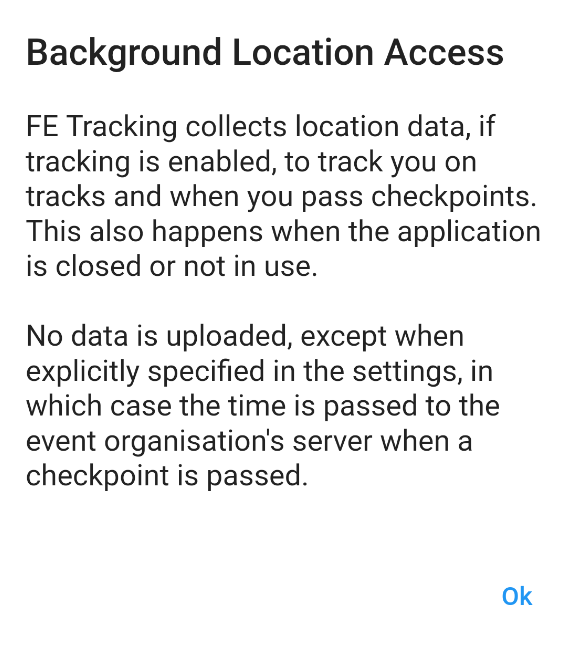
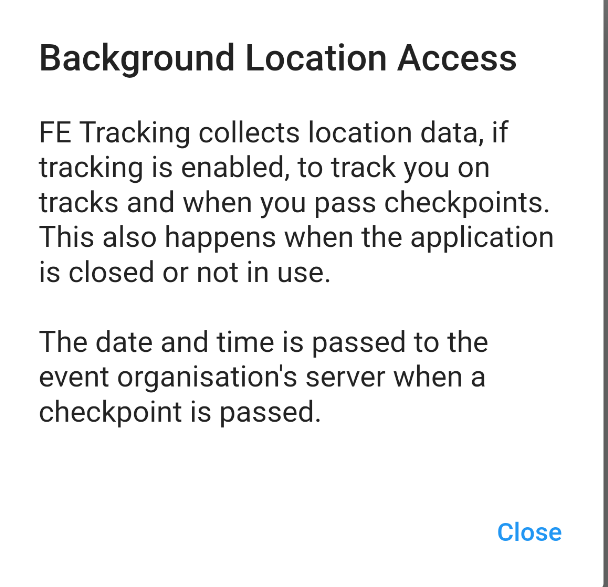
Removed a setting

diff --git a/docs/getting-started/settings.rst b/docs/getting-started/settings.rst
@@ -6,7 +6,7 @@ Settings
 
    .. raw:: html
 
-      <div style="padding:159.72% 0 0 0;position:relative;"><iframe src="https://player.vimeo.com/video/555131123?title=0&byline=0&portrait=0" style="position:absolute;top:0;left:0;width:100%;height:100%;" frameborder="0" allow="autoplay; fullscreen; picture-in-picture" allowfullscreen></iframe></div><script src="https://player.vimeo.com/api/player.js"></script>
+      <div style="padding:159.72% 0 0 0;position:relative;"><iframe src="https://player.vimeo.com/video/566485834?title=0&byline=0&portrait=0" style="position:absolute;top:0;left:0;width:100%;height:100%;" frameborder="0" allow="autoplay; fullscreen; picture-in-picture" allowfullscreen></iframe></div><script src="https://player.vimeo.com/api/player.js"></script>
    ---
    All changes made to the settings are applied immediately.
 
@@ -14,13 +14,6 @@ Settings
 
 General settings
 ----------------
-
-Upload checkpoints
-  If this is switched on, the organisation's server will be notified when a checkpoint is passed.
-  Checkpoints that have already been passed will not be reported to the organisation. If mobile data and/or WiFi is not available the App will retry as soon there is a data connection.
-  Data usage is very minimal; it is less than 1k per checkpoint.
-
-  No privacy-sensitive information is transmitted to the server. The name of the checkpoint, date and time when it was passed, the qrcode of the eticket and two signatures that are unique for the route and checkpoint for this eticket.
 
 Sound
   A short sound is played as soon as a checkpoint is passed, if this setting is switched on.

diff --git a/docs/index.rst b/docs/index.rst
@@ -8,9 +8,10 @@ FE Tracking
 Getting started
 ---------------
 
-The FE Tracking App can be used as an addition to the `Fast Events WordPress plugin <https://docs.fast-events.eu/>`_. The App offers participants - especially in sports events - the possibility
-to show a route including points of interest and checkpoints along the route. The App registers the date and time of the passage of checkpoints and can,
-if the participant chooses, automatically upload these to the server of the event organisation.
+The FE Tracking App can be used as an addition to the `Fast Events WordPress plugin <https://docs.fast-events.eu/>`_.
+The App offers participants - especially in sports events - the possibility
+to show a route including points of interest and checkpoints along the route.
+The App records the date and time of passing the checkpoints and automatically uploads them to to the event organisation's server.
 
 
 * **Install the FE Tracking App**:

diff --git a/docs/usage/track-map.rst b/docs/usage/track-map.rst
@@ -44,7 +44,7 @@ Recording
 
 When the track is recorded, the tracked route is visible (blue line) and the distance and speed are displayed at the top of the screen.
 As soon as a checkpoint is passed, the colour of the circle changes to transparent green.
-And if ``Upload checkpoints`` is `selected in the settings <../getting-started/settings.html#general-settings>`_, the date and time are transferred to the server of the event organisation.
+And the date and time are transmitted to the event organiser's server.
 
 Recording can be paused when you take a break to rest, for example. Pausing the recording is a good way to save the phone's battery life.
 
